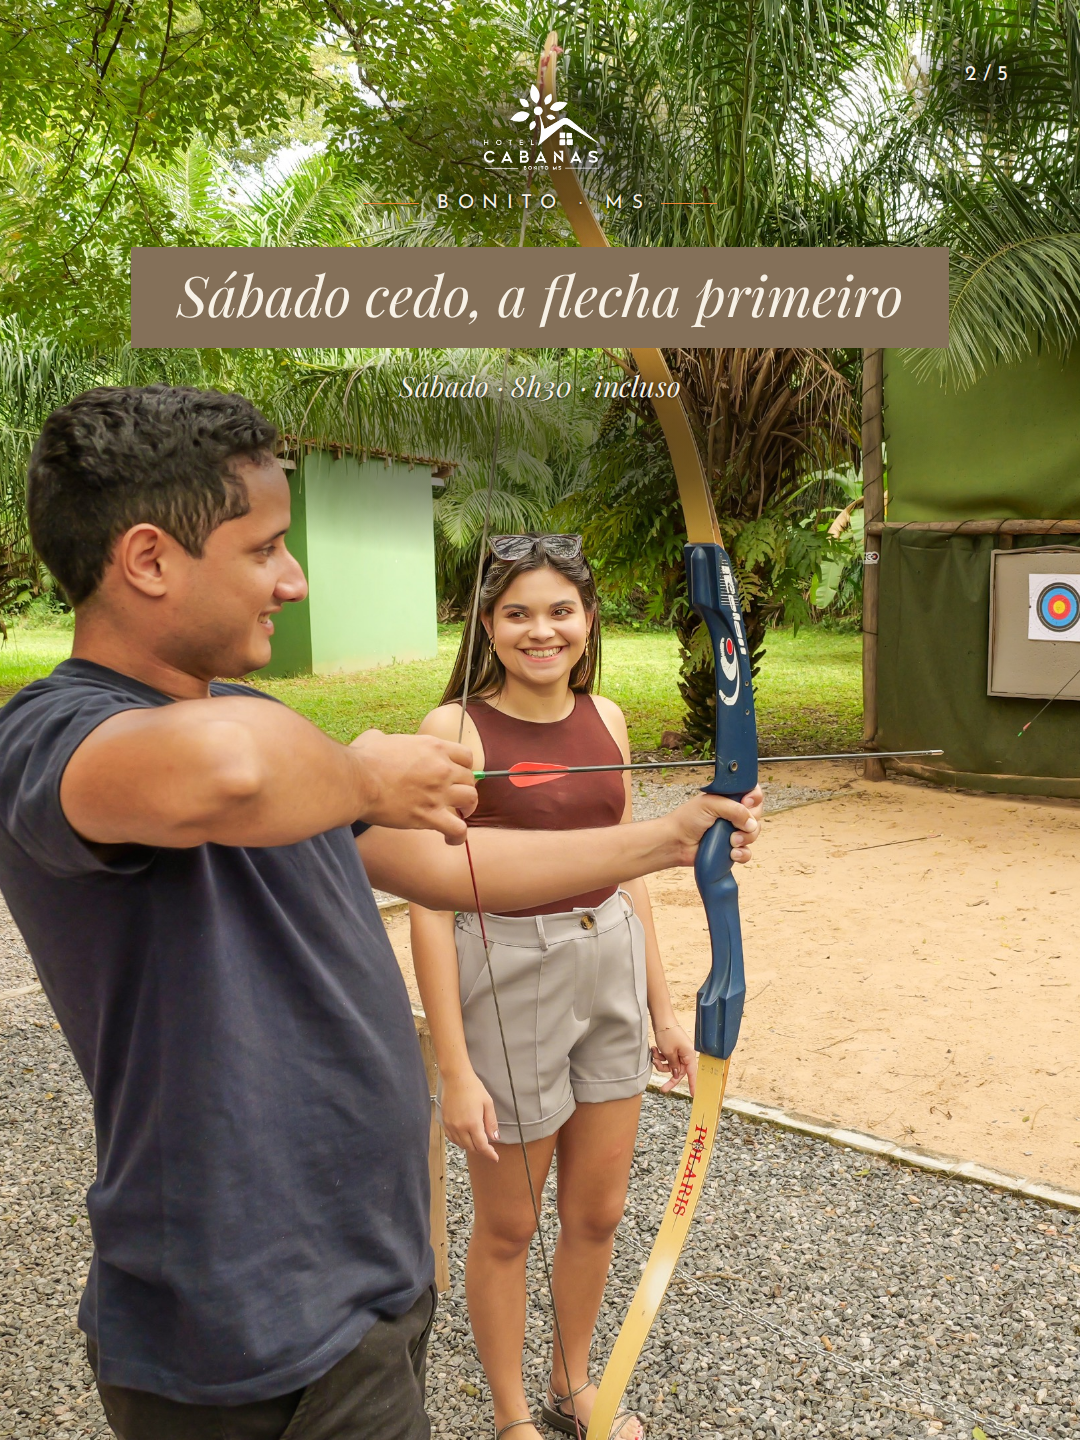
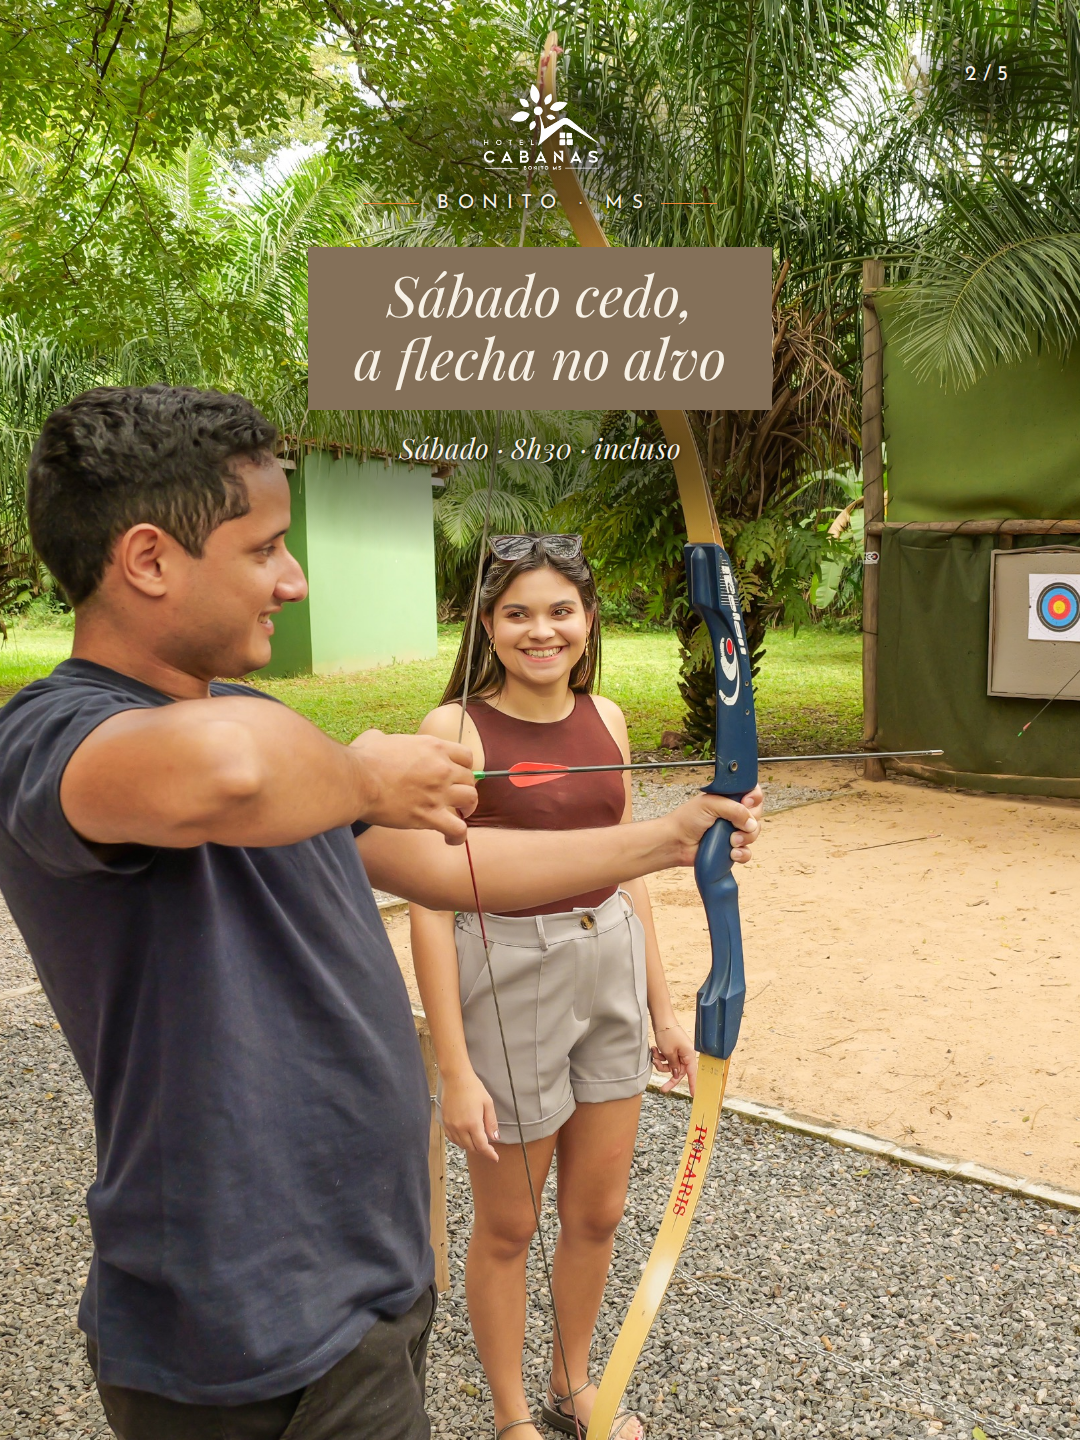
POST 03: tela 2 'Sábado cedo, a flecha no alvo'; tela 3 com foto nova do arvorismo
Claude-Session: https://claude.ai/code/session_01GffBmxQFJnfaKwiJFV7qgT

Changed region(s): [[0.1222, 0.1562, 0.8861, 0.3438]]

diff --git a/design/pecas/2026-10-instagram/POST-03/peca-caixa-2.html b/design/pecas/2026-10-instagram/POST-03/peca-caixa-2.html
@@ -19,7 +19,7 @@
       <img src="../../../../contexto/marca/logo-hotel-cabanas-branco.png" alt="Hotel Cabanas">
       <div class="local"><i class="fio"></i><span>Bonito · MS</span><i class="fio"></i></div>
     </div>
-    <div class="cc-caixa"><h1 class="titulo">Sábado cedo, a flecha primeiro</h1></div>
+    <div class="cc-caixa"><h1 class="titulo duas">Sábado cedo,<br>a flecha no alvo</h1></div>
     <p class="cc-apoio">Sábado · 8h30 · incluso</p>
   </div>
 </div>

diff --git a/design/pecas/2026-10-instagram/POST-03/peca-2.html b/design/pecas/2026-10-instagram/POST-03/peca-2.html
@@ -14,7 +14,7 @@
     <div class="texto">
       <p class="apoio">Sábado · 8h30 · incluso</p>
       <div class="linha"></div>
-      <h1 class="titulo">Sábado <b>cedo</b>,<br>a <i>flecha</i> primeiro</h1>
+      <h1 class="titulo">Sábado <b>cedo</b>,<br>a <i>flecha</i> no alvo</h1>
     </div>
     <div class="marca">
       <span class="num">2/5</span>

diff --git a/design/pecas/2026-10-instagram/POST-03/peca-sem-faixa-2-v2.html b/design/pecas/2026-10-instagram/POST-03/peca-sem-faixa-2-v2.html
@@ -17,7 +17,7 @@
   <div class="bloco-sf cima">
       <p class="apoio">Sábado · 8h30 · incluso</p>
       <div class="linha"></div>
-      <h1 class="titulo">Sábado <b>cedo</b>,<br>a <i>flecha</i> primeiro</h1>
+      <h1 class="titulo">Sábado <b>cedo</b>,<br>a <i>flecha</i> no alvo</h1>
   </div>
   <div class="assin-sf">
     <span class="fio"></span>

diff --git a/design/pecas/2026-10-instagram/POST-03/peca-caixa-3.html b/design/pecas/2026-10-instagram/POST-03/peca-caixa-3.html
@@ -5,7 +5,7 @@
 <meta charset="utf-8">
 <link rel="stylesheet" href="../../../modelos/marca.css">
 <link rel="stylesheet" href="../../../modelos/estilo-caixa-central.css">
-<style>.foto { object-position: 25% center; }</style>
+<style>.foto { object-position: 20% center; }</style>
 </head>
 <body>
 <div class="peca">

diff --git a/design/pecas/2026-10-instagram/POST-03/peca-sem-faixa-3-v2.html b/design/pecas/2026-10-instagram/POST-03/peca-sem-faixa-3-v2.html
@@ -5,7 +5,7 @@
 <meta charset="utf-8">
 <link rel="stylesheet" href="../../../modelos/marca.css">
 <link rel="stylesheet" href="carrossel-sem-faixa.css">
-<style>.foto { object-position: 25% center; }</style>
+<style>.foto { object-position: 20% center; }</style>
 </head>
 <body>
 <div class="peca">

diff --git a/design/pecas/2026-10-instagram/POST-03/peca-3.html b/design/pecas/2026-10-instagram/POST-03/peca-3.html
@@ -5,7 +5,7 @@
 <meta charset="utf-8">
 <link rel="stylesheet" href="../../../modelos/marca.css">
 <link rel="stylesheet" href="carrossel-faixa.css">
-<style>.foto { object-position: 55% center; }</style>
+<style>.foto { object-position: 20% center; }</style>
 </head>
 <body>
 <div class="peca">
